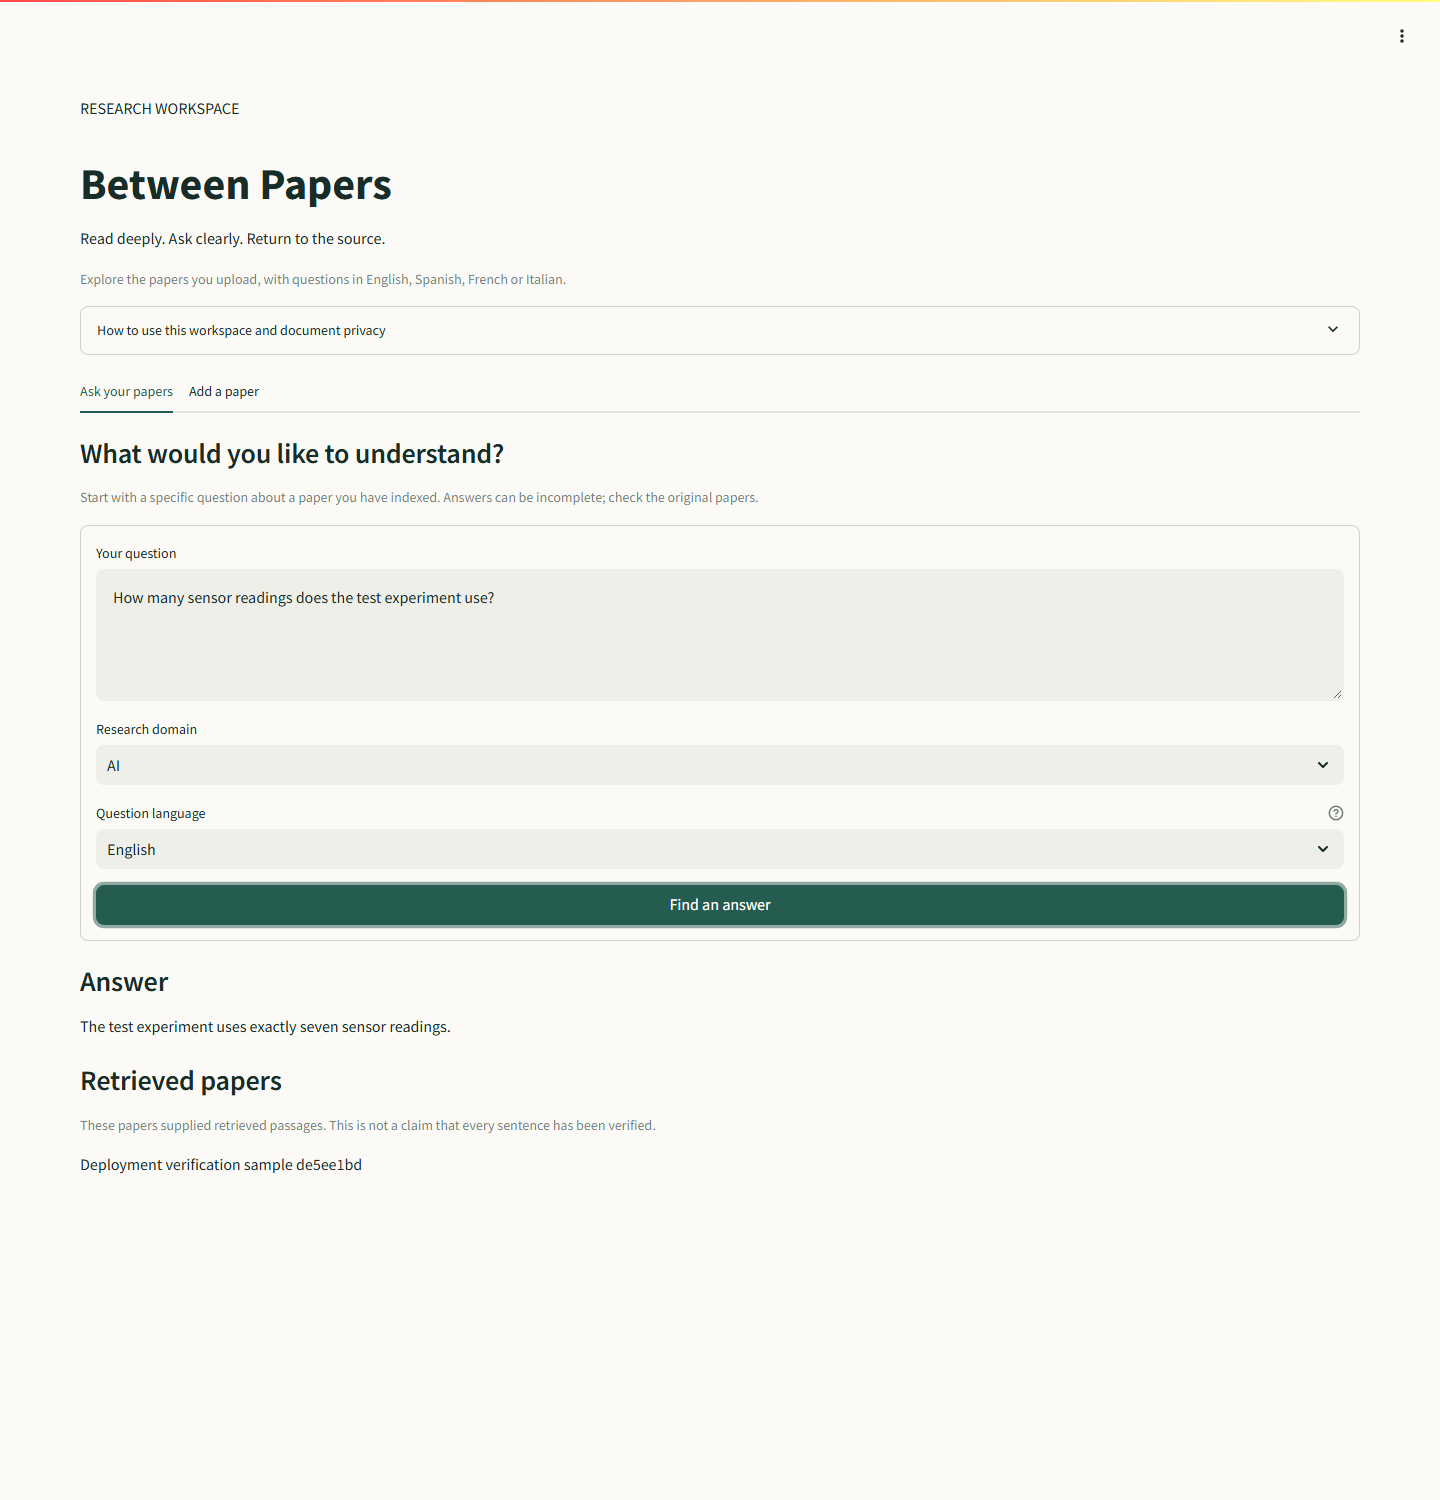
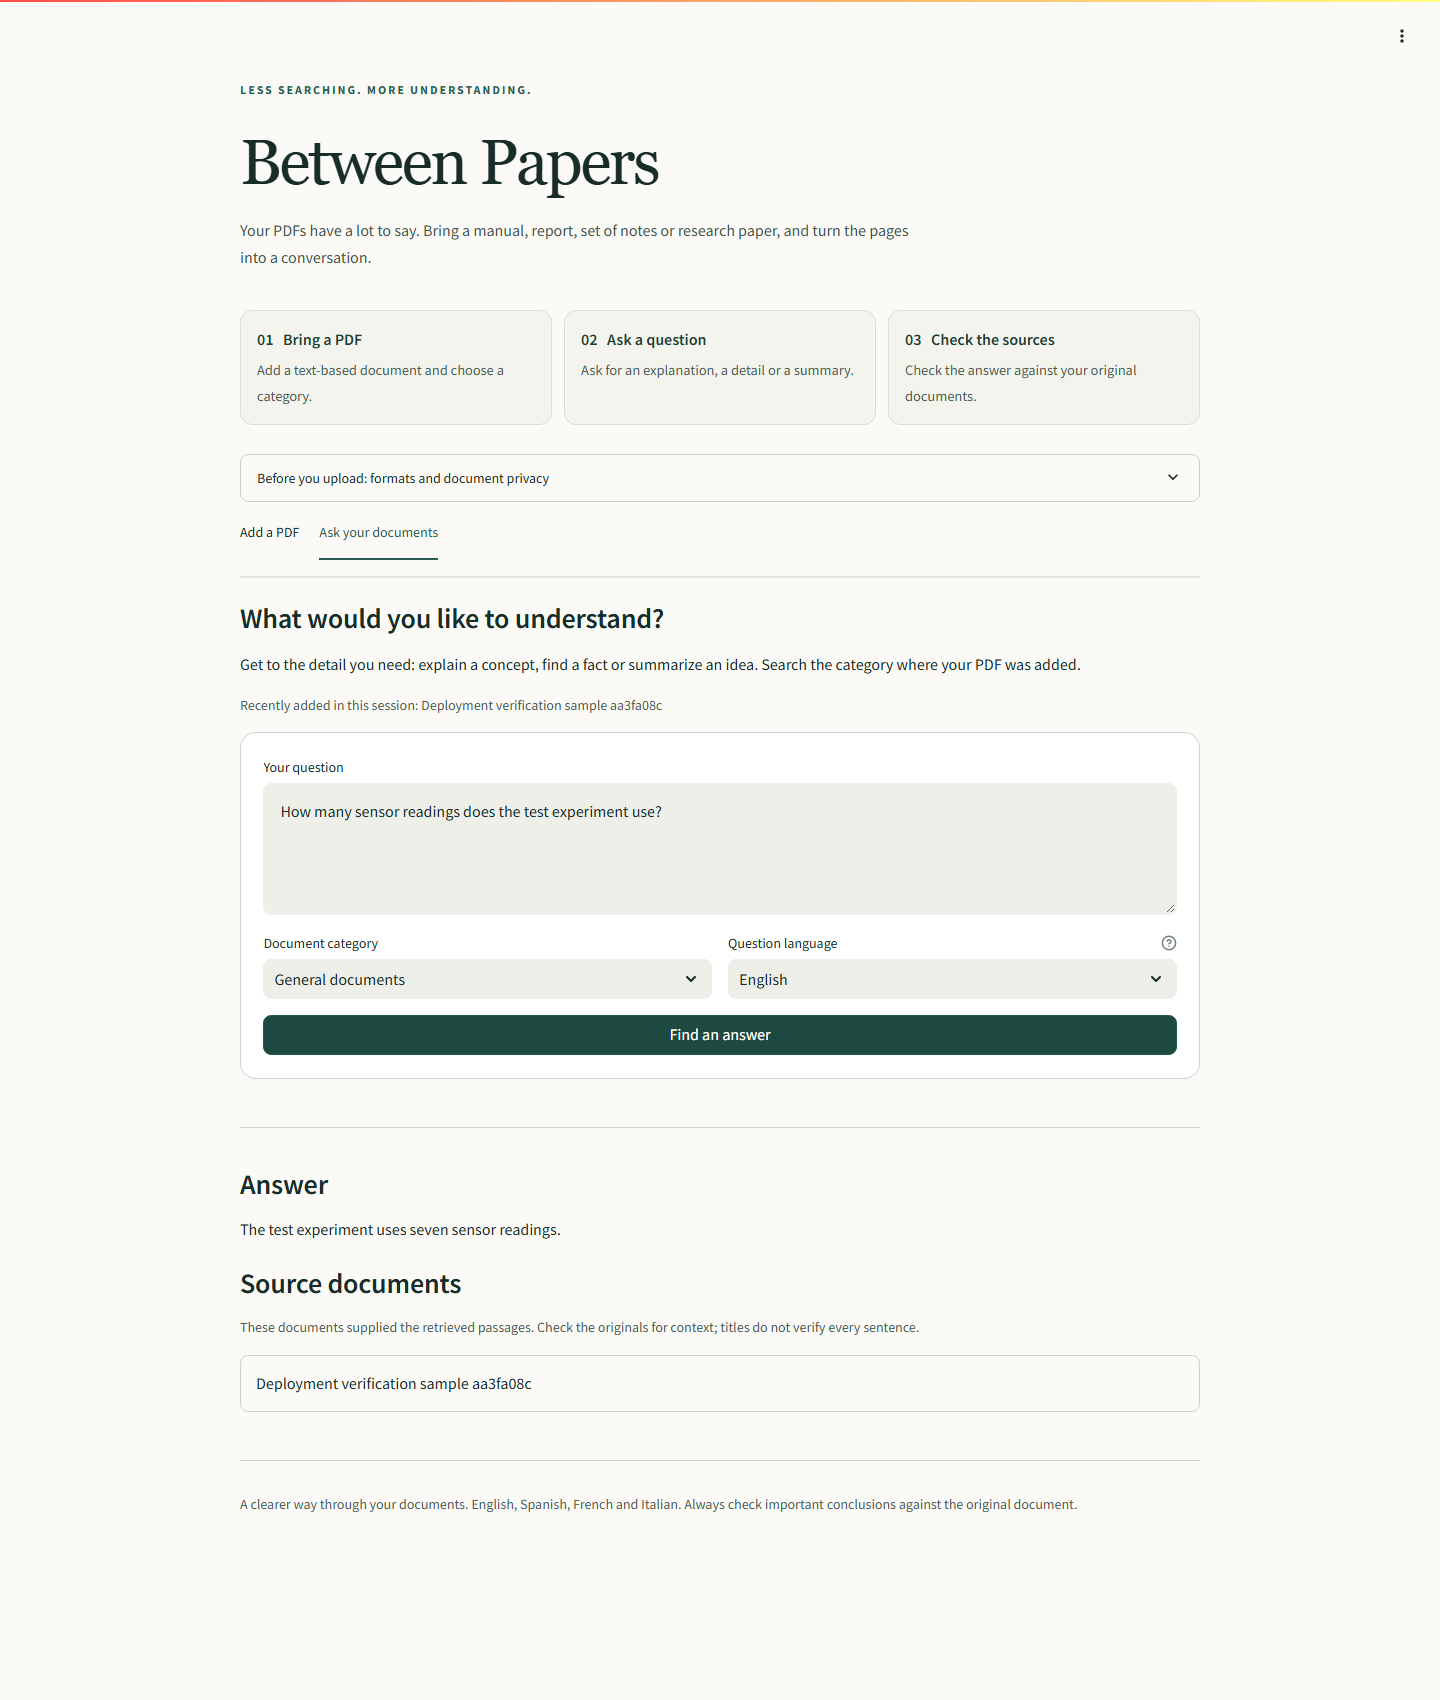
Record live general-document verification and refresh workspace screenshots

diff --git a/tests/browser_check.py b/tests/browser_check.py
@@ -39,7 +39,9 @@ with sync_playwright() as p:
         page.get_by_role('tab', name='Add a PDF').click()
         page.get_by_role('button', name='Make PDF searchable', exact=True).click()
         page.get_by_text('Choose a PDF and give your document a title.', exact=True).wait_for()
-        page.locator('input[type=file]').set_input_files({'name': 'fixture.pdf', 'mimeType': 'application/pdf', 'buffer': pdf_bytes()})
+        with page.expect_response(lambda response: '/upload_file/' in response.url and response.request.method == 'PUT') as upload:
+            page.locator('input[type=file]').set_input_files({'name': 'fixture.pdf', 'mimeType': 'application/pdf', 'buffer': pdf_bytes()})
+        assert upload.value.ok
         page.get_by_role('textbox', name='Document title', exact=True).fill('Deterministic test paper')
         page.get_by_role('combobox').first.click()
         page.get_by_role('option', name='Security', exact=True).click()

diff --git a/docs/VALIDATION.md b/docs/VALIDATION.md
@@ -96,3 +96,13 @@ exclusion. API regressions verify retained appendix text, opt-in exclusion and
 forwarding of both boolean modes. The previous API default is preserved for
 clients that do not send the new field. Caption opacity is explicitly reset to
 keep helper text readable. No OCR, DOCX or image-only PDF support is implied.
+
+The general-PDF release `bfd15e6` passed GitHub CI (33 tests) and public
+phone/tablet/desktop layout checks. A live PDF containing a References heading
+followed by the answer was uploaded through the public interface; Gemini
+returned the correct answer and source document title. A direct collection check
+confirmed both the heading and following text were indexed before the uniquely
+titled test document was removed. Current live screenshots show this release.
+The browser test waits for the file-transfer response before submitting the form.
+Free-service wake-up checks still experienced timeouts; an always-responsive
+service is not claimed. The generic workspace remains limited to text PDFs.

diff --git a/docs/DEPLOYMENT.md b/docs/DEPLOYMENT.md
@@ -4,7 +4,9 @@
 
 Three Render Docker web services were deployed on 8 November 2026 in Singapore,
 all with `plan: free`, using the Render API. Existing unrelated services were
-preserved. Runtime source commit: `0e62affe945def11068fce93a97093595b7b75d3`.
+preserved. The agent and frontend run document-workspace commit
+`bfd15e692f750a2f88e12a1f2900ee0fdf01ebea`; the unchanged translator runs
+`0e62affe945def11068fce93a97093595b7b75d3`.
 
 | Component | Public endpoint |
 | --- | --- |
